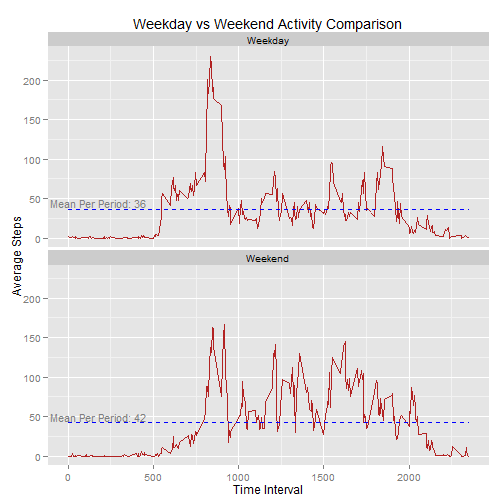
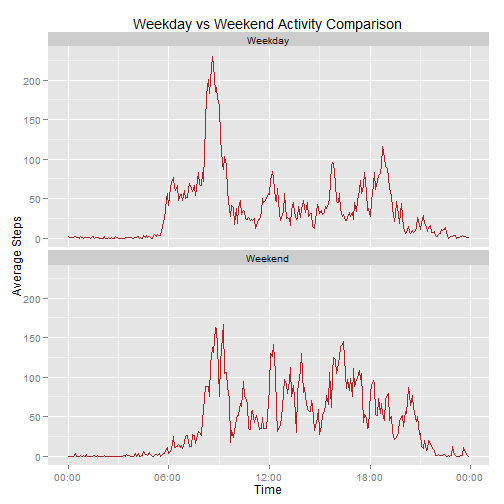
Latest commit after making some minor changes to how the times displayed on the ggplot charts

diff --git a/PA1_template.html b/PA1_template.html
@@ -203,9 +203,9 @@ hr {
 <body>
 <h1>Reproducible Research - Peer Assessment 1</h1>
 
-<p>This assignment makes use of data from a personal activity monitoring device (activity.csv). This device collects data at 5 minute intervals through out the day. The data consists of two months of data from an anonymous individual collected during the months of October and November, 2012 and include the number of steps taken in 5 minute intervals each day.  </p>
+<p>This assignment analyzes data from a personal activity monitoring device (from a file called activity.csv). This device collects data at 5 minute intervals throughout the day. The data consists of two months of data from an anonymous individual collected during the months of October and November, 2012 and include the number of steps taken in 5 minute intervals each day.  </p>
 
-<p>A number of questions are answered as part of this report, including:</p>
+<h3>A number of questions are answered as part of this report, including:</h3>
 
 <ul>
 <li>what are the mean and median steps per day.</li>
@@ -214,12 +214,19 @@ hr {
 <li>What are the differences between weekday activity and weekend activity patterns.<br/></li>
 </ul>
 
-<p>The activity data consists of 17,568 observations over the following 3 features:</p>
+<h3>The activity data consists of 17,568 observations over the following 3 features:</h3>
 
 <ul>
 <li>steps (numeric indicating the number of steps taken)</li>
 <li>date (date indicating the date of the measurement)</li>
-<li>interval (numeric indicating the 5 minute time period during which the measurement was taken)<br/></li>
+<li>interval (numeric indicating the 5 minute time period during which the measurement was taken)</li>
+</ul>
+
+<h3>Some additional features were added to the data to support the analysis:</h3>
+
+<ul>
+<li>typeofday (weekday or weekend as a factor variable)</li>
+<li>datetime (POSIXct that converts the numeric interval to an actual date/time object so the times can display appropriately on the charts)<br/></li>
 </ul>
 
 <h2>Loading and Preprocessing the Data</h2>
@@ -237,6 +244,10 @@ hr {
 
         #convert typeofday to a factor variable
         data$typeofday &lt;-as.factor(data$typeofday)
+
+        #adding a feature to convert the interval feature to an actual date/time POSIXct date object
+        #to make the charts display easier.
+        data$datetime &lt;- as.POSIXct(strptime(formatC(data$interval, width = 4, format = &quot;d&quot;, flag = &quot;0&quot;), &quot;%H%M&quot;))
 </code></pre>
 
 <h2>Mean and Median Steps Per Day</h2>
@@ -267,24 +278,32 @@ hr {
         #average number of steps taken, averaged across all days (y-axis)
 
         interval.based.summary &lt;- data[complete.cases(data),]%&gt;%
-                group_by(interval)%&gt;% 
+                group_by(datetime)%&gt;% 
                         summarise(meansteps=mean(steps))
 
-        plot(interval.based.summary$interval, interval.based.summary$meansteps, type = &quot;l&quot;, 
-        main = &quot;Average Steps per Time Period&quot;, xlab = &quot;Time Period&quot;, ylab = &quot;Average Steps&quot;)
+        p &lt;- ggplot(interval.based.summary, aes(x=datetime, y=meansteps))
+        p &lt;- p + geom_line(color=&quot;firebrick&quot;)
+        p &lt;- p + labs (title=&quot;Average Steps Per Day&quot;)
+        p &lt;- p + labs (x=&quot;Time&quot;)
+        p &lt;- p + labs (y=&quot;Average Steps&quot;)
+
+        #using the scale_x_datetime function from the scale package to reformat
+        #the display of x to only show the time
+        p &lt;- p + scale_x_datetime(labels = date_format(&quot;%H:%M&quot;))
+
+        print (p)
 </code></pre>
 
[2 lines of base64/hex data omitted]
 
 <pre><code class="r">        # Which 5-minute interval, on average across all the days in the dataset, contains the                
         #maximum number of steps?
-
-        most.active.time &lt;- as.character(subset(interval.based.summary, meansteps==max(meansteps), 
-        select=c(&quot;interval&quot;)))
+        most.active.time &lt;- as.character(format(subset(interval.based.summary, meansteps==max(meansteps), 
+        select=c(&quot;datetime&quot;)), format=&quot;%H:%M&quot;))
 </code></pre>
 
 <ul>
-<li>The most active time period of the day is period 835<br/></li>
+<li>The most active time period of the day is period 08:35<br/></li>
 </ul>
 
 <h2>Imputing Missing Values</h2>
@@ -314,7 +333,7 @@ nadata &lt;- data[!complete.cases(data),]
 completedata &lt;- data[complete.cases(data),]
 
 #join the nadata to the interval based dataset so we can fill in the blanks
-nadata &lt;- merge (nadata, interval.based.summary, by.x=&quot;interval&quot;, by.y=&quot;interval&quot;, all.x=FALSE, all.y=FALSE)
+nadata &lt;- merge (nadata, interval.based.summary, by.x=&quot;datetime&quot;, by.y=&quot;datetime&quot;, all.x=FALSE, all.y=FALSE)
 
 #use mutate to update the steps feature (with NA&#39;s) with the meansteps from the interval set
 nadata &lt;- mutate(nadata, steps = round(meansteps, digits=0))
@@ -344,23 +363,24 @@ mediansteps &lt;- as.character(round(median(date.based.summary$totalsteps), digi
 
 <h2>Weekday vs Weekend Activity Patterns</h2>
 
-<pre><code class="r">       #group by interval and type of day for summarization at that level
-        by_interval_and_type &lt;- group_by (newdata, 
-                                         combo = paste(interval, typeofday, sep= &quot;~&quot;))
+<pre><code class="r">        #group by interval and type of day for summarization of steps at that level        
+        by_interval_and_type &lt;- newdata%&gt;%
+                                        group_by(combo = paste(datetime, typeofday, sep= &quot;~&quot;))%&gt;%
+                                               summarize(mean(steps)) 
 
-        #calculate the mean by interval and type
-        weekday.vs.weekend.summary &lt;- summarize(by_interval_and_type, mean(steps))
+        colnames(by_interval_and_type)[2] &lt;- &quot;steps&quot;
+
 
         #call the separate function to create a &quot;year&quot; column and &quot;typeofday&quot; column
-        weekday.vs.weekend.summary &lt;- separate(data=weekday.vs.weekend.summary, 
-                                               col=combo, into=c(&quot;interval&quot;, &quot;typeofday&quot;), 
+        weekday.vs.weekend.summary &lt;- separate(data=by_interval_and_type, 
+                                               col=combo, into=c(&quot;datetime&quot;, &quot;typeofday&quot;), 
                                                sep= &quot;~&quot;)
 
+        #reset datatypes 
         weekday.vs.weekend.summary$typeofday &lt;- as.factor(weekday.vs.weekend.summary$typeofday)
+        weekday.vs.weekend.summary$datetime &lt;- as.POSIXct(weekday.vs.weekend.summary$datetime)
 
         colnames(weekday.vs.weekend.summary)[3] &lt;- &quot;meansteps&quot;
-
-        weekday.vs.weekend.summary$interval &lt;- as.numeric(weekday.vs.weekend.summary$interval)
 
         weekdaymean &lt;- round(mean(subset(weekday.vs.weekend.summary, 
                                    typeofday==&quot;Weekday&quot;, 
@@ -370,43 +390,25 @@ mediansteps &lt;- as.character(round(median(date.based.summary$totalsteps), digi
                                    typeofday==&quot;Weekend&quot;, 
                                    select=c(&quot;meansteps&quot;))$meansteps), digits=0)
 
-        #this next piece is not required per the instructions but i wanted to show
-        #some different annotation on the plots by facet to include the average
-        #steps by time period for each facet.
-        #i had to create a little data frame with the x &amp; y co-ords for each plot.
-        #in order to get ggplot to understand which facet to put the text on,
-        #i needed to include the typeofday feature which is what is used for the facet
-        # thanks to TRinkers R blog for pointing me in the right direction because it had 
-        #me stumped.  
-        #https://trinkerrstuff.wordpress.com/2012/09/01/add-text-annotations-to-ggplot2-faceted-plot/
-
-        annotation.text.info &lt;- data.frame(x=c(180,180), y=c(weekdaymean+8, weekendmean+8), 
-                        label=c(paste(&quot;Mean Per Period:&quot;, weekdaymean),
-                                paste(&quot;Mean Per Period:&quot;,weekendmean)), 
-                                typeofday=c(&quot;Weekday&quot;,&quot;Weekend&quot;))
-
-
-
-        p &lt;- ggplot(weekday.vs.weekend.summary, aes(x=interval, y=meansteps))
+        p &lt;- ggplot(weekday.vs.weekend.summary, aes(x=datetime, y=meansteps))
         p &lt;- p + geom_line(color=&quot;firebrick&quot;)
         p &lt;- p + labs (title=&quot;Weekday vs Weekend Activity Comparison&quot;)
-        p &lt;- p + labs (x=&quot;Time Interval&quot;)
+        p &lt;- p + labs (x=&quot;Time&quot;)
         p &lt;- p + labs (y=&quot;Average Steps&quot;)
         p &lt;- p + facet_wrap(~typeofday, ncol=1)
-        p &lt;- p + geom_line(stat = &quot;hline&quot;, yintercept = &quot;mean&quot;, color=&#39;blue&#39;, linetype=2)
-        p &lt;- p + geom_text(aes(x, y, label=label, group=NULL), data=annotation.text.info, 
-                           color = &quot;grey50&quot;, size=4) 
+        #using the scale_x_datetime function from the scale package to reformat
+        #the display of x to only show the time
+        p &lt;- p + scale_x_datetime(labels = date_format(&quot;%H:%M&quot;))
 
         print (p)
 </code></pre>
 
[2 lines of base64/hex data omitted]
 
 <ul>
-<li>The average number of steps taken per 5 minute time period during the week were 36 and the average number of steps taken per 5 minute time period on the weekend were 42</li>
+<li>The average number of steps taken per 5 minute time period during the week were <strong>36</strong> and the average number of steps taken per 5 minute time period on the weekend were <strong>42</strong></li>
 <li>The weekday pattern exhibits a big spike early in the morning (could be walking to work or gym) and then very moderate activity during the day.</li>
-<li><p>The weekend pattern also exhibits a bigger spike early in the morning but then a much higher rate of activity on average compared to the weekday activity.  </p></li>
-<li><p>Thanks to <a href="https://trinkerrstuff.wordpress.com/2012/09/01/add-text-annotations-to-ggplot2-faceted-plot/">TRinkers R blog</a> for providing the guidance I needed to figure out how to put different text annotations on different locations when doing faceted plots.</p></li>
+<li>The weekend pattern also exhibits a bigger spike early in the morning but then a much higher rate of activity on average compared to the weekday activity.<br/></li>
 </ul>
 
 </body>

diff --git a/PA1_template.md b/PA1_template.md
@@ -1,18 +1,22 @@
 # Reproducible Research - Peer Assessment 1  
 
-This assignment makes use of data from a personal activity monitoring device (activity.csv). This device collects data at 5 minute intervals through out the day. The data consists of two months of data from an anonymous individual collected during the months of October and November, 2012 and include the number of steps taken in 5 minute intervals each day.  
+This assignment analyzes data from a personal activity monitoring device (from a file called activity.csv). This device collects data at 5 minute intervals throughout the day. The data consists of two months of data from an anonymous individual collected during the months of October and November, 2012 and include the number of steps taken in 5 minute intervals each day.  
 
-A number of questions are answered as part of this report, including:
+### A number of questions are answered as part of this report, including:
 * what are the mean and median steps per day.
 * what are the daily activity patterns.
 * How should we impute missing information so as to have a complete dataset.
 * What are the differences between weekday activity and weekend activity patterns.  
 
 
-The activity data consists of 17,568 observations over the following 3 features:
+### The activity data consists of 17,568 observations over the following 3 features:
 * steps (numeric indicating the number of steps taken)
 * date (date indicating the date of the measurement)
-* interval (numeric indicating the 5 minute time period during which the measurement was taken)  
+* interval (numeric indicating the 5 minute time period during which the measurement was taken)
+
+### Some additional features were added to the data to support the analysis:
+* typeofday (weekday or weekend as a factor variable)
+* datetime (POSIXct that converts the numeric interval to an actual date/time object so the times can display appropriately on the charts)  
 
 
 
@@ -35,6 +39,10 @@ The activity data consists of 17,568 observations over the following 3 features:
 
         #convert typeofday to a factor variable
         data$typeofday <-as.factor(data$typeofday)
+
+        #adding a feature to convert the interval feature to an actual date/time POSIXct date object
+        #to make the charts display easier.
+        data$datetime <- as.POSIXct(strptime(formatC(data$interval, width = 4, format = "d", flag = "0"), "%H%M"))
 ```
 
 
@@ -68,11 +76,20 @@ The activity data consists of 17,568 observations over the following 3 features:
         #average number of steps taken, averaged across all days (y-axis)
 
         interval.based.summary <- data[complete.cases(data),]%>%
-                group_by(interval)%>% 
+                group_by(datetime)%>% 
                         summarise(meansteps=mean(steps))
 
-        plot(interval.based.summary$interval, interval.based.summary$meansteps, type = "l", 
-        main = "Average Steps per Time Period", xlab = "Time Period", ylab = "Average Steps")
+        p <- ggplot(interval.based.summary, aes(x=datetime, y=meansteps))
+        p <- p + geom_line(color="firebrick")
+        p <- p + labs (title="Average Steps Per Day")
+        p <- p + labs (x="Time")
+        p <- p + labs (y="Average Steps")
+        
+        #using the scale_x_datetime function from the scale package to reformat
+        #the display of x to only show the time
+        p <- p + scale_x_datetime(labels = date_format("%H:%M"))
+
+        print (p)
 ```
 
 ![plot of chunk unnamed-chunk-4](figure/unnamed-chunk-4-1.png) 
@@ -80,12 +97,11 @@ The activity data consists of 17,568 observations over the following 3 features:
 ```r
         # Which 5-minute interval, on average across all the days in the dataset, contains the                
         #maximum number of steps?
-
-        most.active.time <- as.character(subset(interval.based.summary, meansteps==max(meansteps), 
-        select=c("interval")))
+        most.active.time <- as.character(format(subset(interval.based.summary, meansteps==max(meansteps), 
+        select=c("datetime")), format="%H:%M"))
 ```
 
-* The most active time period of the day is period 835  
+* The most active time period of the day is period 08:35  
 
 
 ## Imputing Missing Values  
@@ -118,7 +134,7 @@ nadata <- data[!complete.cases(data),]
 completedata <- data[complete.cases(data),]
 
 #join the nadata to the interval based dataset so we can fill in the blanks
-nadata <- merge (nadata, interval.based.summary, by.x="interval", by.y="interval", all.x=FALSE, all.y=FALSE)
+nadata <- merge (nadata, interval.based.summary, by.x="datetime", by.y="datetime", all.x=FALSE, all.y=FALSE)
 
 #use mutate to update the steps feature (with NA's) with the meansteps from the interval set
 nadata <- mutate(nadata, steps = round(meansteps, digits=0))
@@ -153,23 +169,24 @@ mediansteps <- as.character(round(median(date.based.summary$totalsteps), digits=
 
 
 ```r
-       #group by interval and type of day for summarization at that level
-        by_interval_and_type <- group_by (newdata, 
-                                         combo = paste(interval, typeofday, sep= "~"))
+        #group by interval and type of day for summarization of steps at that level        
+        by_interval_and_type <- newdata%>%
+                                        group_by(combo = paste(datetime, typeofday, sep= "~"))%>%
+                                               summarize(mean(steps)) 
         
-        #calculate the mean by interval and type
-        weekday.vs.weekend.summary <- summarize(by_interval_and_type, mean(steps))
+        colnames(by_interval_and_type)[2] <- "steps"
+     
       
         #call the separate function to create a "year" column and "typeofday" column
-        weekday.vs.weekend.summary <- separate(data=weekday.vs.weekend.summary, 
-                                               col=combo, into=c("interval", "typeofday"), 
+        weekday.vs.weekend.summary <- separate(data=by_interval_and_type, 
+                                               col=combo, into=c("datetime", "typeofday"), 
                                                sep= "~")
 
+        #reset datatypes 
         weekday.vs.weekend.summary$typeofday <- as.factor(weekday.vs.weekend.summary$typeofday)
+        weekday.vs.weekend.summary$datetime <- as.POSIXct(weekday.vs.weekend.summary$datetime)
 
         colnames(weekday.vs.weekend.summary)[3] <- "meansteps"
-        
-        weekday.vs.weekend.summary$interval <- as.numeric(weekday.vs.weekend.summary$interval)
 
         weekdaymean <- round(mean(subset(weekday.vs.weekend.summary, 
                                    typeofday=="Weekday", 
@@ -179,41 +196,21 @@ mediansteps <- as.character(round(median(date.based.summary$totalsteps), digits=
                                    typeofday=="Weekend", 
                                    select=c("meansteps"))$meansteps), digits=0)
 
-        #this next piece is not required per the instructions but i wanted to show
-        #some different annotation on the plots by facet to include the average
-        #steps by time period for each facet.
-        #i had to create a little data frame with the x & y co-ords for each plot.
-        #in order to get ggplot to understand which facet to put the text on,
-        #i needed to include the typeofday feature which is what is used for the facet
-        # thanks to TRinkers R blog for pointing me in the right direction because it had 
-        #me stumped.  
-        #https://trinkerrstuff.wordpress.com/2012/09/01/add-text-annotations-to-ggplot2-faceted-plot/
-        
-        annotation.text.info <- data.frame(x=c(180,180), y=c(weekdaymean+8, weekendmean+8), 
-                        label=c(paste("Mean Per Period:", weekdaymean),
-                                paste("Mean Per Period:",weekendmean)), 
-                                typeofday=c("Weekday","Weekend"))
-
-     
-   
-        p <- ggplot(weekday.vs.weekend.summary, aes(x=interval, y=meansteps))
+        p <- ggplot(weekday.vs.weekend.summary, aes(x=datetime, y=meansteps))
         p <- p + geom_line(color="firebrick")
         p <- p + labs (title="Weekday vs Weekend Activity Comparison")
-        p <- p + labs (x="Time Interval")
+        p <- p + labs (x="Time")
         p <- p + labs (y="Average Steps")
         p <- p + facet_wrap(~typeofday, ncol=1)
-        p <- p + geom_line(stat = "hline", yintercept = "mean", color='blue', linetype=2)
-        p <- p + geom_text(aes(x, y, label=label, group=NULL), data=annotation.text.info, 
-                           color = "grey50", size=4) 
+        #using the scale_x_datetime function from the scale package to reformat
+        #the display of x to only show the time
+        p <- p + scale_x_datetime(labels = date_format("%H:%M"))
 
         print (p)
 ```
 
 ![plot of chunk unnamed-chunk-7](figure/unnamed-chunk-7-1.png) 
 
-* The average number of steps taken per 5 minute time period during the week were 36 and the average number of steps taken per 5 minute time period on the weekend were 42
+* The average number of steps taken per 5 minute time period during the week were **36** and the average number of steps taken per 5 minute time period on the weekend were **42**
 * The weekday pattern exhibits a big spike early in the morning (could be walking to work or gym) and then very moderate activity during the day.
 * The weekend pattern also exhibits a bigger spike early in the morning but then a much higher rate of activity on average compared to the weekday activity.  
-
-
-- Thanks to [TRinkers R blog](https://trinkerrstuff.wordpress.com/2012/09/01/add-text-annotations-to-ggplot2-faceted-plot/) for providing the guidance I needed to figure out how to put different text annotations on different locations when doing faceted plots.
